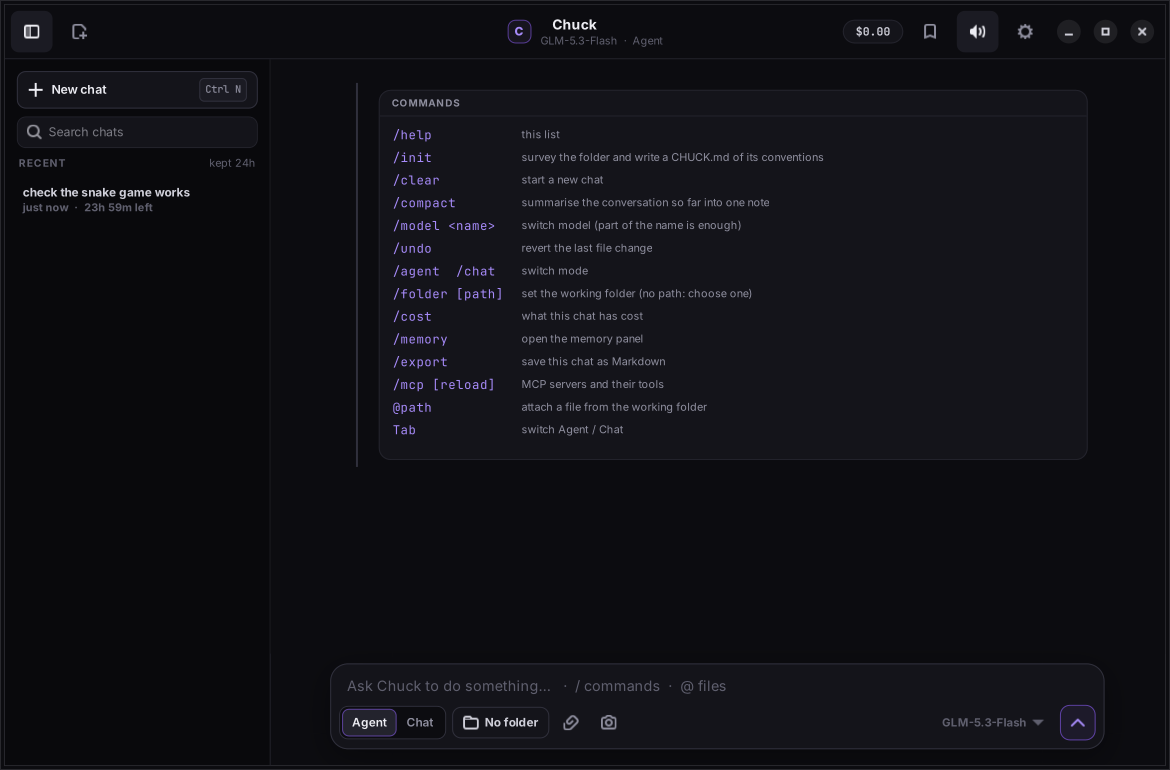
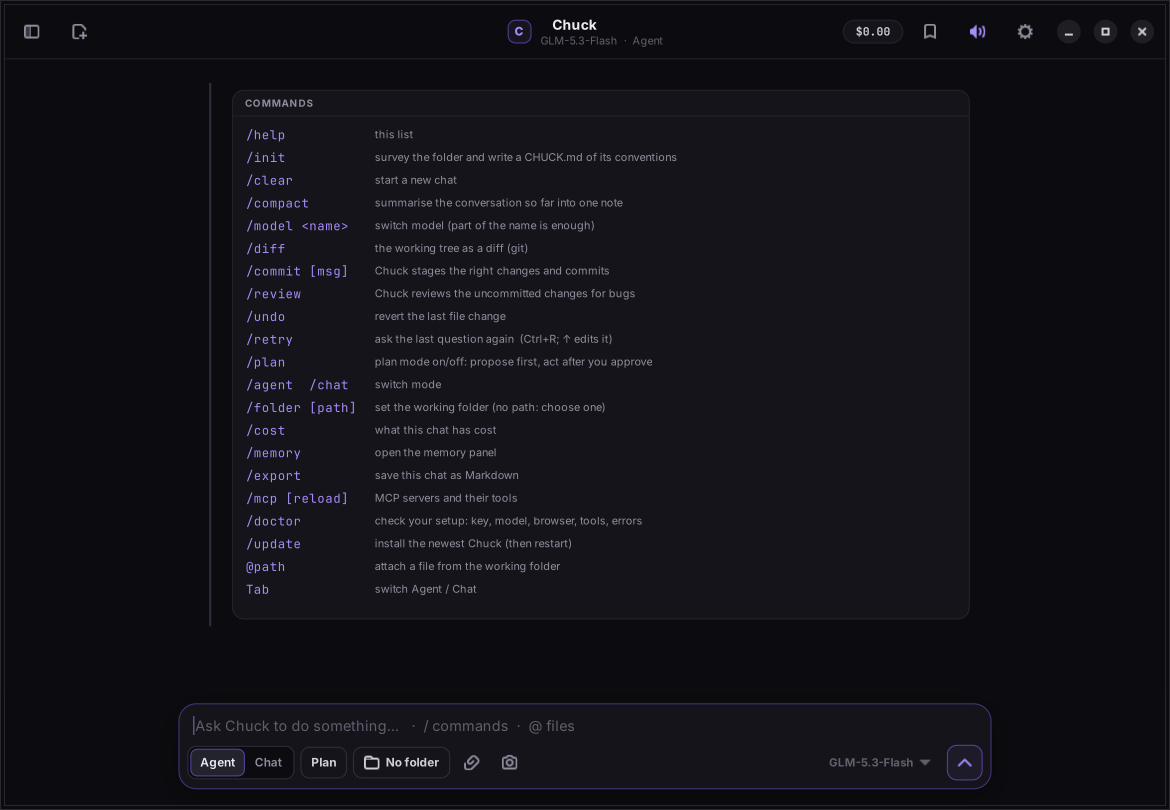
Release 16.0.0: docs, screenshots and the v17 roadmap
- Version 16.0.0. README covers steering, plan mode, retry/edit, git,
  hooks, the Python session, research through the browser, /doctor, the
  crash log and updates, with new screenshots rendered on real GTK (plan
  mode, Python session, doctor, and the updated /help card).
- CHANGELOG 16.0.0.
- ROADMAP: v16 complete; v17 added (code intelligence, whole-folder
  checkpoints and sandboxing, background and scheduled tasks, driving
  desktop apps through AT-SPI, remote MCP and custom commands).
- A proposed plan no longer shows its first step as under way.

Claude-Session: https://claude.ai/code/session_016guqUpKP2JjwuC8KaEh3jr

diff --git a/chucknorris.py b/chucknorris.py
@@ -7556,7 +7556,8 @@ class ChuckWindow(Adw.ApplicationWindow):
         cl = Gtk.Label(label=f"{done}/{len(items)}"); cl.add_css_class("plan-head")
         hd.append(hl); hd.append(cl)
         card.append(hd)
-        cur_marked = False
+        state = (entry or {}).get("data", {}).get("approval")
+        cur_marked = state == "pending"           # nothing is under way until it's approved
         for st, t in items:
             row = Gtk.Box(orientation=Gtk.Orientation.HORIZONTAL, spacing=10)
             now = st == ">" or (st == " " and not cur_marked)
@@ -7574,7 +7575,6 @@ class ChuckWindow(Adw.ApplicationWindow):
             set_rich(tl, t)                       # `code` and **bold** in a step render
             row.append(il); row.append(tl)
             card.append(row)
-        state = (entry or {}).get("data", {}).get("approval")
         if state == "pending":
             card.add_css_class("plan-proposed")
             bar = Gtk.Box(orientation=Gtk.Orientation.HORIZONTAL, spacing=8)

diff --git a/chucknorris_ext/config.py b/chucknorris_ext/config.py
@@ -12,7 +12,7 @@ from pathlib import Path
 from . import net as _net
 
 APP_ID = "org.thepriest.chucknorris"
-VERSION = "15.1.0"
+VERSION = "16.0.0"
 
 # Backend model. GLM-5.3-Flash (Z.ai) replaced DeepSeek-V4-Flash in v13: it
 # tops SiliconFlow's intelligence board, is the strongest coder / long-horizon

diff --git a/README.md b/README.md
@@ -3,12 +3,12 @@
 # Chuck
 
 **A desktop coding and system agent for Linux, on SiliconFlow models.**
-Runs commands, edits real code, plays its own web apps in a real browser, reads whole repos, speaks MCP, runs sub-agents in parallel, and tells you what it all cost.
+Runs commands, edits real code, plays its own web apps in a real browser, keeps a live Python session, reads whole repos, speaks MCP, runs sub-agents in parallel, plans before it acts when you ask, and tells you what it all cost.
 
-![version](https://img.shields.io/badge/version-15.1.0-8b5cf6?style=flat-square&labelColor=0c0c10)
+![version](https://img.shields.io/badge/version-16.0.0-8b5cf6?style=flat-square&labelColor=0c0c10)
 ![gtk](https://img.shields.io/badge/GTK4-libadwaita-8b5cf6?style=flat-square&labelColor=0c0c10)
 ![python](https://img.shields.io/badge/Python-3.11_·_3.12_·_3.13-8b5cf6?style=flat-square&labelColor=0c0c10)
-![suites](https://img.shields.io/badge/test_suites-21-2ea043?style=flat-square&labelColor=0c0c10)
+![suites](https://img.shields.io/badge/test_suites-22-2ea043?style=flat-square&labelColor=0c0c10)
 ![deps](https://img.shields.io/badge/runtime_deps-stdlib_+_GTK-2ea043?style=flat-square&labelColor=0c0c10)
 ![licence](https://img.shields.io/badge/licence-MIT-8b5cf6?style=flat-square&labelColor=0c0c10)
 
@@ -53,6 +53,7 @@ Click the folder chip (or **Ctrl+O**) to point the session at a project. Command
 | `edit` | Aider-style `SEARCH/REPLACE` blocks. Only the changed lines are sent, so it's cheap on output tokens. All-or-nothing, whitespace-tolerant, re-verified after the edit. |
 | `write` | New files of any length. A reply that hits the output limit is **continued automatically** and stitched (repeated overlap trimmed) before the file is written. |
 | `bash` · `python` · `node` | One step at a time, auto-verified before it runs (real defects only, never style), real exit code back. Output streams live into the card. `cd` carries to the next command, like a terminal. |
+| `py` | **One Python that lives as long as the chat**, notebook-style: load data once and keep using it, see the last value, get matplotlib figures back as images. |
 | `patch` | A multi-file unified diff, applied all-or-nothing. Hunks are found by their context, so wrong line numbers don't matter. |
 | `browse` | A real headless Chromium. Load a page or file, click, type, press keys, run JS. Back come uncaught errors with file and line, failed requests, the page text and a screenshot. |
 | `diagnose` | LSP-lite: lint and type-check files on disk with whatever is installed (ruff, mypy, pyright, tsc, eslint, shellcheck, cargo, go vet). |
@@ -65,7 +66,7 @@ Click the folder chip (or **Ctrl+O**) to point the session at a project. Command
 | `runtests` · `package` · `tree` | Run the project's own tests, zip the result, show what was built. |
 | `screenshot` · `look` | Chuck **sees**: the screen, or any image (a page rendered with headless Chromium, a plot, a mockup). Build a UI, look at it, fix it. |
 | `task` | **Parallel sub-agents.** Each `task` block is a read-only sub-agent with its own model loop. Several run at once and report back; only their summaries enter the main context. |
-| `search` · `fetch` | Live web research across SearXNG instances, with sources cited. |
+| `search` · `fetch` | Live web research across SearXNG instances, with sources cited. A page that blocks a plain fetch (a bot check, or nothing until JavaScript runs) is read through the browser instead. |
 | `remember` · `forget` | Long-term memory (below). |
 | `mcp` | Any Model Context Protocol server's tools (below). |
 
@@ -73,13 +74,29 @@ Click the folder chip (or **Ctrl+O**) to point the session at a project. Command
 
 **Sub-agents are read-only by design.** Parallel writers would trample each other's edits and race each other's sudo prompts. Parallel readers can't. They survey, research and report; the main agent acts, one verified step at a time.
 
+## Steer it, plan it, retry it
+
+- **Talk while it works.** Press Enter mid-task and your message is queued and delivered at the agent's next step. A *"not that file"* lands without waiting for the run to finish.
+- **Plan mode.** Toggle **Plan** in the composer (or `/plan`). Chuck investigates read-only and proposes a plan card. Nothing changes until you press **Approve & run**, and **Revise** sends it back.
+- **Retry and edit.** **Ctrl+R** asks the last question again. **↑** in an empty composer edits your last message and resends from there.
+
+<img src="assets/screenshots/plan-mode.png" alt="Plan mode: Chuck read the game, then proposed a four-step plan card with Approve & run and Revise" width="100%">
+
+## The workflow around the code
+
+- **Git.** `/diff` shows the working tree as a card. `/commit` has Chuck stage the right changes and write the message from the diff. `/review` has him review the uncommitted diff for bugs before you push.
+- **Hooks.** Settings → Agent takes a command to run after every file write (a formatter, with `{path}`, optionally only for matching files) and one he must pass before he may finish (`pytest -q`, a linter). Their results go back to the model, so he fixes what they find.
+- **A Python session.** ```` ```py ```` blocks share one interpreter per chat. Load a dataset once, then explore it block by block. Stop interrupts a long loop and keeps the variables, and a figure comes back as an image he can look at. ```` ```python ```` stays a fresh one-shot script.
+
+<img src="assets/screenshots/python-session.png" alt="Two PYTHON SESSION cards: the first loads a CSV, the second plots it, with the chart shown in the card" width="100%">
+
 ## It plays what it builds
 
 Web pages and games get opened in a real browser and *played*: arrow keys pressed, buttons clicked, state read back with JavaScript. The BROWSER card shows you what it found, so a typo that throws on every frame never ships as "done".
 
 <img src="assets/screenshots/browse.png" alt="A BROWSER card: one uncaught ReferenceError with its line, the key presses and JS result, and a screenshot of the game" width="100%">
 
-**Which browser:** Brave if you have it, otherwise Chromium or Chrome. They all speak the DevTools protocol Chuck drives directly, with no extra dependencies. Or choose **[Camoufox](https://camoufox.com)**, a Firefox build that websites can't fingerprint, in Settings → Agent → Browser. It's for research on sites that block automation. Install it with `CHUCK_CAMOUFOX=1 ./install.sh`, or `pip install --user -U 'camoufox[geoip]' && python3 -m camoufox fetch`.
+**Which browser:** Brave if you have it, otherwise Chromium or Chrome. They all speak the DevTools protocol Chuck drives directly, with no extra dependencies. Or choose **[Camoufox](https://camoufox.com)**, a Firefox build that websites can't fingerprint, in Settings → Agent → Browser. It's for research on sites that block automation. Research also falls back to the browser by itself: a page that refuses a plain fetch is read in it, after its bot check has cleared. Install Camoufox with `CHUCK_CAMOUFOX=1 ./install.sh`, or `pip install --user -U 'camoufox[geoip]' && python3 -m camoufox fetch`.
 
 Long builds stream into their card while they run, with a clock, and a finished log opens on its last lines, where the errors are.
 
@@ -168,6 +185,11 @@ All of it is visible, searchable, addable and deletable in the Memory panel.
 - **A model is down?** After its retries, that request is answered by a fallback model (automatic, or your choice in Settings), and the chat says so.
 - **Watching spend?** Set a per-chat spending cap. When a chat reaches it, the task pauses and asks before spending more.
 - **Esc** stops the turn *and* the command it was running, whole process tree included.
+- **`/doctor`** checks your setup in one card: key and balance, model, browser, linters, screenshots, voice, MCP servers, disk, and recent errors, each with the fix.
+- **A crash log.** Errors on the UI thread, in worker threads and in tools are written to `~/.local/state/chucknorris/chuck.log` with their tracebacks (never keys or chats), so a bug report has something in it. Settings opens it.
+- **Updates.** Once a day Chuck checks GitHub for a newer version and offers it. `/update` installs it without sudo. A git clone gets a fast-forward pull, and an installed copy is downloaded, checked and swapped in whole. **Restart now** reopens your chat.
+
+<img src="assets/screenshots/doctor.png" alt="The DOCTOR card: a row per check with a green tick or an amber warning and the fix" width="100%">
 
 ## Safety that doesn't get in your way
 
@@ -178,7 +200,8 @@ Commands run on their own; that's the point of an agent. **CRITICAL** ones (disk
 | key | action |
 |---|---|
 | **Tab** | switch Agent / Chat |
-| **Enter** · **Shift+Enter** | send · new line |
+| **Enter** · **Shift+Enter** | send (or, while it works, steer) · new line |
+| **Ctrl+R** · **↑** | retry the last answer · edit your last message |
 | **Ctrl+V** | paste text, an image, or copied files |
 | **Ctrl+O** | working folder |
 | **Ctrl+N** · **Ctrl+B** · **Ctrl+,** | new chat · chats sidebar · settings |
@@ -211,7 +234,7 @@ Arch / CachyOS first-class; apt and dnf supported. The installer handles GTK4 + 
 ./run_tests.sh
 ```
 
-Twenty-one suites run headless against a stubbed toolkit and drive the real window end to end. They cover whole conversations, both modes, edits in a real folder, paged reads of a 12,000-line file, a file written across two cut-off replies, parallel sub-agents, images reaching the model as images, cache-hit pricing, memory updates and scopes, an agent that stops early or never stops, late streams from a stopped turn, undo and background jobs, a README whose example must not run, the critical gate, sudo storms, orphaned processes, and the ledger chain. `test_deep.py` runs whole sessions with real processes and ports, plus 180 seeded random model replies that must never hang the app, run something they shouldn't, or write outside the folder. The UI itself was checked by rendering every screen on real GTK 4.14 / libadwaita 1.5. The screenshots above are those renders.
+Twenty-two suites run headless against a stubbed toolkit and drive the real window end to end. They cover whole conversations, both modes, edits in a real folder, paged reads of a 12,000-line file, a file written across two cut-off replies, parallel sub-agents, images reaching the model as images, cache-hit pricing, memory updates and scopes, an agent that stops early or never stops, late streams from a stopped turn, undo and background jobs, steering mid-task, plan approval, git and hooks, a Python session that survives Stop, bot walls on a local site read through real Chromium, updates that refuse a broken download, a README whose example must not run, the critical gate, sudo storms, orphaned processes, and the ledger chain. `test_deep.py` runs whole sessions with real processes and ports, plus 180 seeded random model replies that must never hang the app, run something they shouldn't, or write outside the folder. The UI itself was checked by rendering every screen on real GTK 4.14 / libadwaita 1.5. The screenshots above are those renders.
 
 ## Being straight with you
 

diff --git a/CHANGELOG.md b/CHANGELOG.md
@@ -1,5 +1,83 @@
 # Changelog
 
+## 16.0.0 — steer it, trust it, keep it running
+
+The second roadmap (`docs/ROADMAP.md`, phases 5–9), shipped item by item with
+tests in `tests/test_v16.py`.
+
+### Steer it and trust it
+
+- **Steer mid-task.** Enter while Chuck works queues your message; it reaches
+  the agent at its next step and shows as a queued bubble until delivered.
+  Undelivered messages go back to the composer on Stop.
+- **Plan mode.** The **Plan** toggle in the composer (or `/plan`): Chuck
+  investigates read-only and proposes a plan card with **Approve & run** and
+  **Revise**. Changing tools are refused until you approve. A proposed plan
+  shows no step as under way.
+- **Retry and edit.** Ctrl+R (or `/retry`) asks the last question again; ↑ in
+  an empty composer edits your last message and resends from there. A retry
+  rewinds that turn's tool results too.
+- A reopened chat now shows what the machine did (tool results, folded)
+  instead of only the conversation.
+
+### The workflow around the code
+
+- **Git:** `/diff` (the working tree as a card, no model call), `/commit`
+  (Chuck stages the right changes and writes the message from the diff) and
+  `/review` (a bug review of the uncommitted diff that changes nothing).
+- **Hooks** in Settings → Agent: a command after every file write (`{path}`,
+  optionally filtered by glob) and one Chuck must pass before he may finish.
+  Results go to the model; a hook that never passes stops after three rounds.
+- **A persistent Python session.** ```` ```py ```` blocks share one
+  interpreter per chat: data loaded once stays loaded, the last value is
+  shown, matplotlib figures come back as images (to the model too, when it
+  can see). Output streams live and tracebacks point at the block. Stop sends
+  Ctrl+C and the variables survive; a kernel that ignores it is killed and
+  the next block says it started fresh. `input()` fails fast. The verifier
+  knows the session's names, so building on an earlier block isn't flagged.
+  ```` ```python ```` stays a one-shot script. A new chat, switching chats or
+  closing Chuck ends the session.
+
+### The web as it really is
+
+- **Pages that refuse a plain fetch are read through the browser.** A bot
+  wall, a 403 for anything that isn't a browser, or a page that is empty
+  without JavaScript is fetched again in Brave, Chromium, Chrome or Camoufox,
+  which waits up to 10 s for the check to clear and reads the article text.
+  A wall that never clears is reported as blocked, not returned as content.
+  At most two browsers at once; 404s aren't retried. It can be turned off.
+- Headless Chromium no longer announces itself as `HeadlessChrome`.
+
+### Operations
+
+- **`/doctor`**: one card checking the key and balance, model, working folder,
+  browser, linters, Node, screenshots, voice, MCP servers, disk and recent
+  errors, each problem with its fix. No model call.
+- **Crash log**: uncaught errors (UI thread and worker threads) and tool
+  failures go to `~/.local/state/chucknorris/chuck.log` with a timestamp,
+  version and traceback; rotates at 1 MB. Never keys, settings or chats.
+  Settings → Agent → Error log opens it.
+- **Updates**: a daily check against GitHub (Settings → General can turn it
+  off) and a toast with **Update**. `/update` installs without sudo: a git
+  clone gets `git pull --ff-only` (local commits are never overwritten); an
+  installed copy downloads one archive, verifies every module, including the
+  ones `config` imports, is present and compiles, then swaps it in.
+  **Restart now** saves the chat and reopens it in the new Chuck.
+
+### Fixes
+
+- Toasts sit over the transcript only, no longer over the composer.
+- "Working on it…" no longer stays on a step that only ran tools.
+- Money shows as `$0.50`, not `$0.500`.
+- An exported chat shows what you typed, not the internal notes prefix.
+- The byline after a fallback names the model that answered.
+- A file card for a write that changed nothing says "no change" and has no
+  Revert.
+- The plan nudge can no longer spend three paid calls on a reply that only
+  talked.
+- Narrow windows: the sidebar collapses below 900 px and secondary header
+  buttons hide below 680 px; the welcome screen reflows instead of clipping.
+
 ## 15.1.0 — Brave and Camoufox
 
 - **Brave is the preferred browser.** Automatic mode looks for Brave first

diff --git a/docs/ROADMAP.md b/docs/ROADMAP.md
@@ -114,6 +114,72 @@ there's nothing to look at.
 
 ### Phase 9 — proof
 
-- [ ] Tests for every item, deep tests where it touches real processes.
+- [x] Tests for every item, deep tests where it touches real processes.
+- [x] README, CHANGELOG, screenshots on real GTK.
+- [x] Prompt budget re-checked.
+
+## v17 — the next gaps
+
+v16 made Chuck steerable and dependable. What still separates it from the
+best agents: it navigates code by text, not by meaning or by symbol; undo
+covers files it wrote, not everything a command changed; only one task can
+run at a time; desktop apps it builds can be seen but not driven; and MCP
+reaches only local servers.
+
+### Phase 10 — code intelligence
+
+- [ ] **Symbols.** ```def <name>``` and ```refs <name>``` answer "where is this
+      defined / used" through a real language server when one is installed
+      (pyright, typescript-language-server, rust-analyzer, gopls), with the
+      AST/regex map as the fallback.
+- [ ] **Rename.** ```rename <old> <new>``` applies a language server's rename
+      across the project as one checkpointed, revertible change.
+- [ ] **Search by meaning.** ```find <description>``` ranks files and
+      functions by relevance (BM25 over identifiers, docstrings and comments,
+      stdlib only), for "where do we handle retries?" in an unfamiliar repo.
+
+### Phase 11 — safer autonomy
+
+- [ ] **Checkpoints of everything.** Before each step that acts, the working
+      folder is snapshotted into a shadow git repository (yours is never
+      touched). `/rewind` restores files AND conversation to any earlier step,
+      including what a command (a code generator, `npm install`) changed.
+- [ ] **Sandbox mode.** An option to run commands and ```py``` inside
+      bubblewrap: writes only to the project, no network unless allowed, the
+      rest of the system read-only.
+- [ ] **Permission profiles.** Per-folder rules (allow all / ask before writes
+      outside the folder / ask before network / read-only), shown as a chip in
+      the composer.
+
+### Phase 12 — more than one thing at once
+
+- [ ] **Background tasks.** Send a task to the background and keep chatting;
+      it runs in its own chat with its own folder, and a notification says when
+      it's done or needs an answer.
+- [ ] **Resume after a crash.** An in-flight turn's state is saved as it goes;
+      reopening Chuck after a crash or power cut offers to continue it.
+- [ ] **Scheduled tasks.** "Every morning, update the system and tell me what
+      changed": a schedule in Settings, results waiting as a chat.
+
+### Phase 13 — desktop apps it can drive
+
+- [ ] **Accessibility driver.** ```app``` launches a GTK/Qt/Electron app and
+      acts on it through AT-SPI: list the controls, click a button by its
+      name, type into a field, read a label. Desktop apps get the same
+      build–play–fix loop web pages have.
+- [ ] **Voice input.** Push-to-talk with a local whisper.cpp model; nothing
+      leaves the machine.
+
+### Phase 14 — ecosystem
+
+- [ ] **Remote MCP.** Streamable-HTTP MCP servers (with OAuth), MCP resources
+      and prompts, alongside the stdio servers.
+- [ ] **Custom commands.** `.chuck/commands/<name>.md` in a project (or the
+      config folder) becomes `/name`, with `$ARGUMENTS`.
+
+### Phase 15 — proof
+
+- [ ] Tests for every item, real language servers and real AT-SPI where
+      they're installed.
 - [ ] README, CHANGELOG, screenshots on real GTK.
 - [ ] Prompt budget re-checked.
